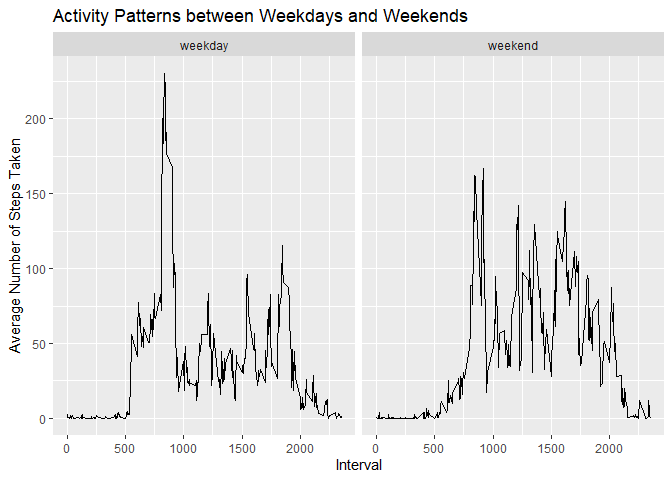
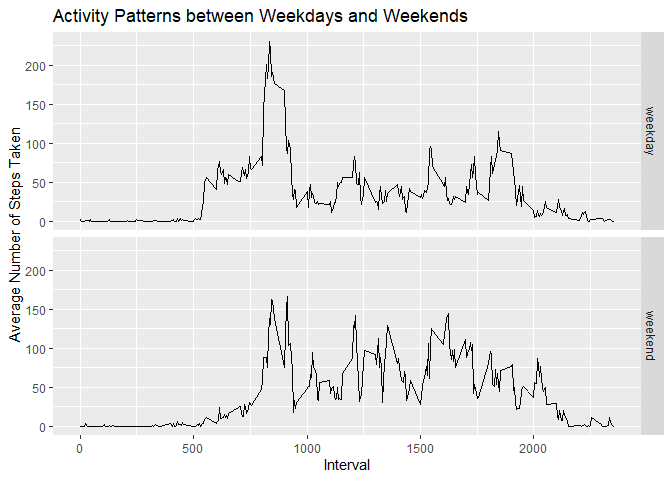
second commit

diff --git a/PA1_template.html b/PA1_template.html
@@ -324,12 +324,12 @@ activity.imputed2$interval&lt;-as.numeric(as.character(activity.imputed2$interva
 library(ggplot2)
 ggplot(data=activity.imputed2,
        aes(x=interval,y=MeanSteps.Int.Dty))+
-        facet_grid(.~ daytype)+
+        facet_grid(daytype~.)+
         geom_line()+
         xlab(&quot;Interval&quot;)+
         ylab(&quot;Average Number of Steps Taken&quot;)+
         ggtitle(&quot;Activity Patterns between Weekdays and Weekends&quot;)</code></pre>
[2 lines of base64/hex data omitted]
 </div>
 
 

diff --git a/PA1_template.md b/PA1_template.md
@@ -219,7 +219,7 @@ activity.imputed2$interval<-as.numeric(as.character(activity.imputed2$interval))
 library(ggplot2)
 ggplot(data=activity.imputed2,
        aes(x=interval,y=MeanSteps.Int.Dty))+
-        facet_grid(.~ daytype)+
+        facet_grid(daytype~.)+
         geom_line()+
         xlab("Interval")+
         ylab("Average Number of Steps Taken")+
